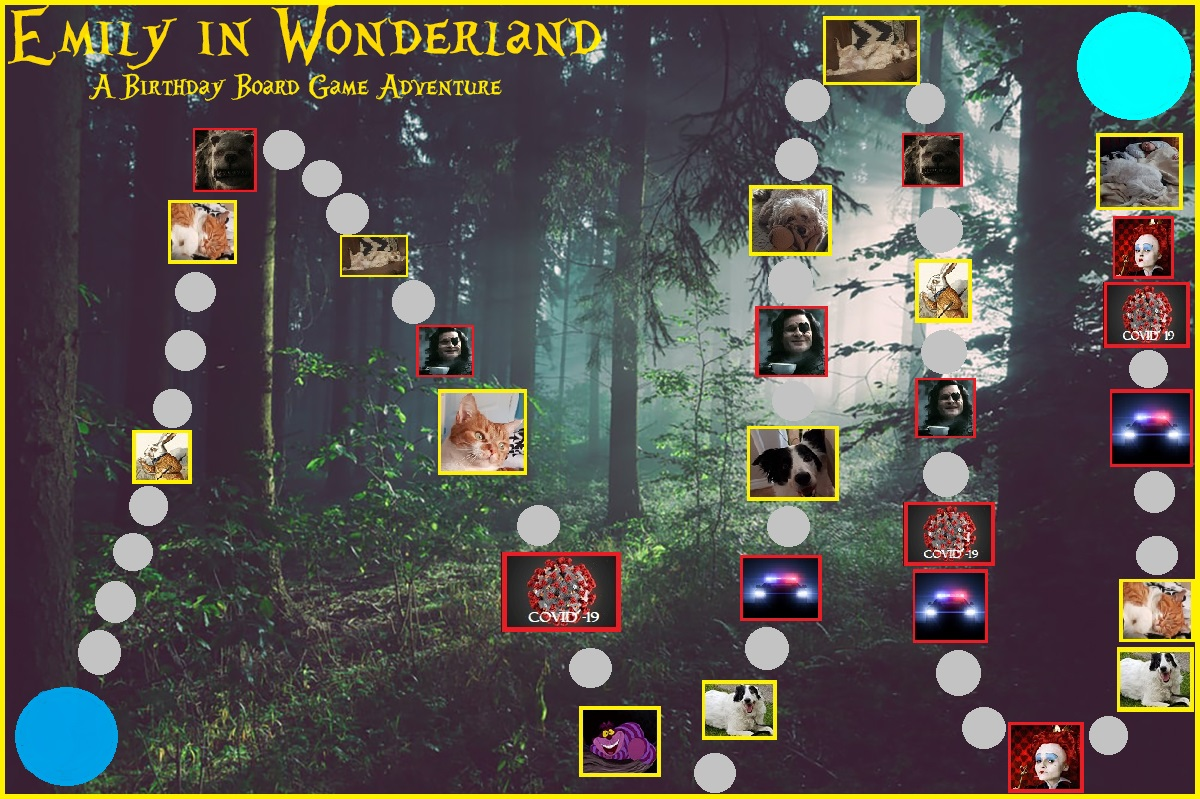
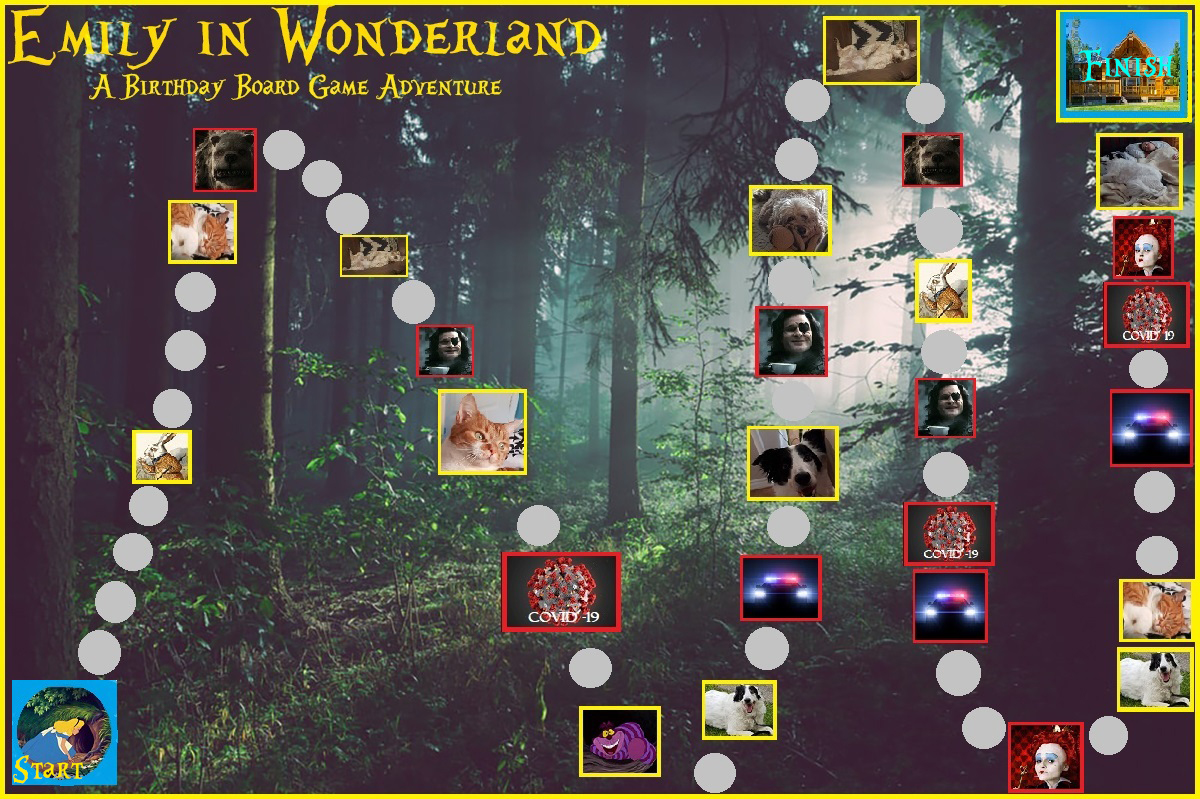
Add files via upload

diff --git a/game.js b/game.js
@@ -101,6 +101,17 @@ function moveForward() {
   imgObj.style.top = everySpot[x][0] + 'px';
   imgObj.style.left =  everySpot[y][1] + 'px';
 
+  if (parseInt(imgObj.style.top) == -709 && parseInt(imgObj.style.left ) == -92 ) {
+    swal("Congratulations!", "With your help, Emily was able to make it to the cottage on time!" , "success");
+    setTimeout(function(){
+      var url = 'https://www.youtube.com/watch?v=3GwjfUFyY6M';
+      window.open(url,'_blank');
+      window.open(url);
+
+    }, 2000);
+
+  }
+
   //swal("Failed move", RANDOM TEXT HERE, "error"); --> for bad moves
 }
 

diff --git a/index.html b/index.html
@@ -10,5 +10,3 @@
 </div>
 
 <button onclick=moveLogic()> Roll Dice </button>
-<button onclick=moveForward()> CLICK ME </button>
-<button onclick=moveBackward()> GO BACKWARDS </button>
